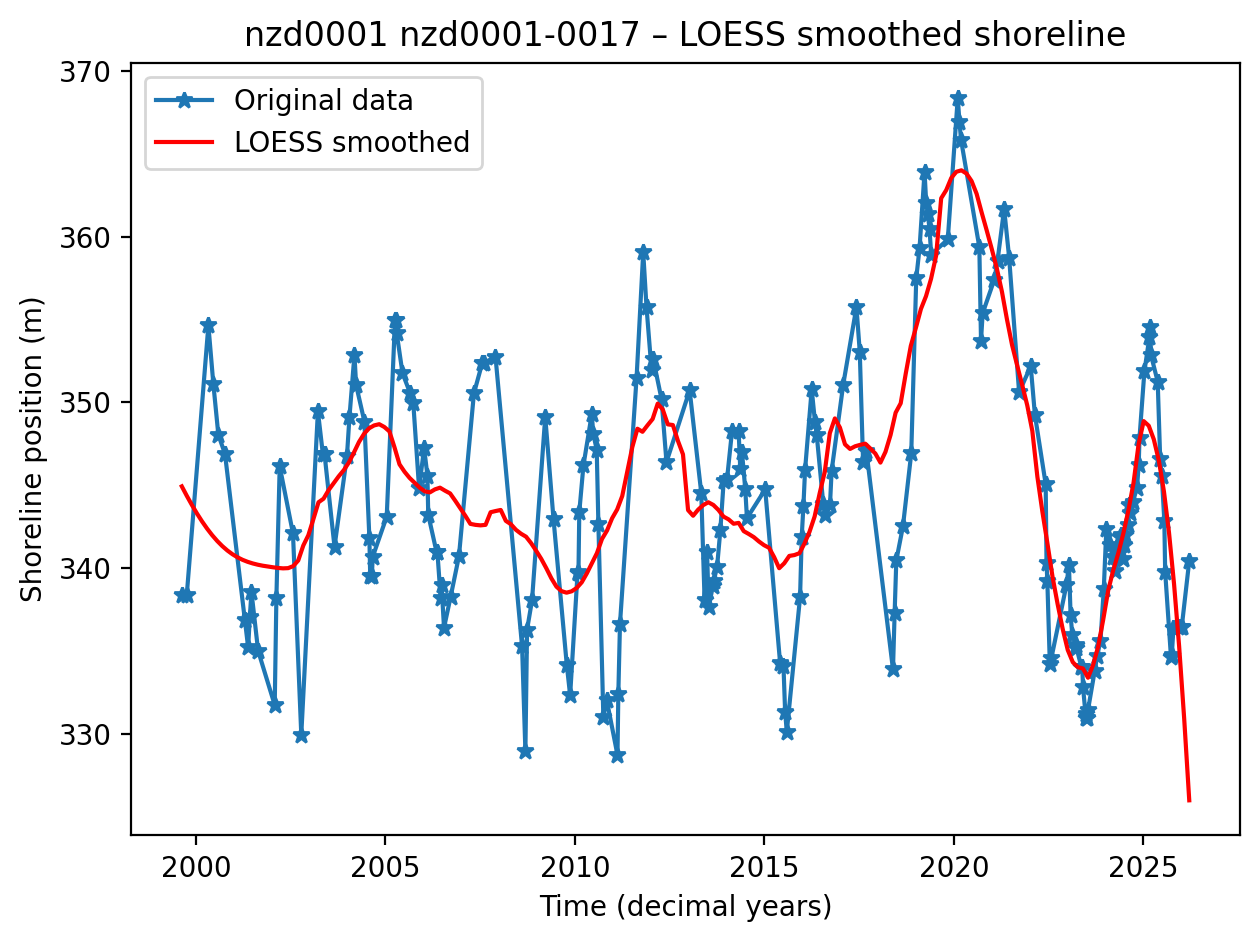
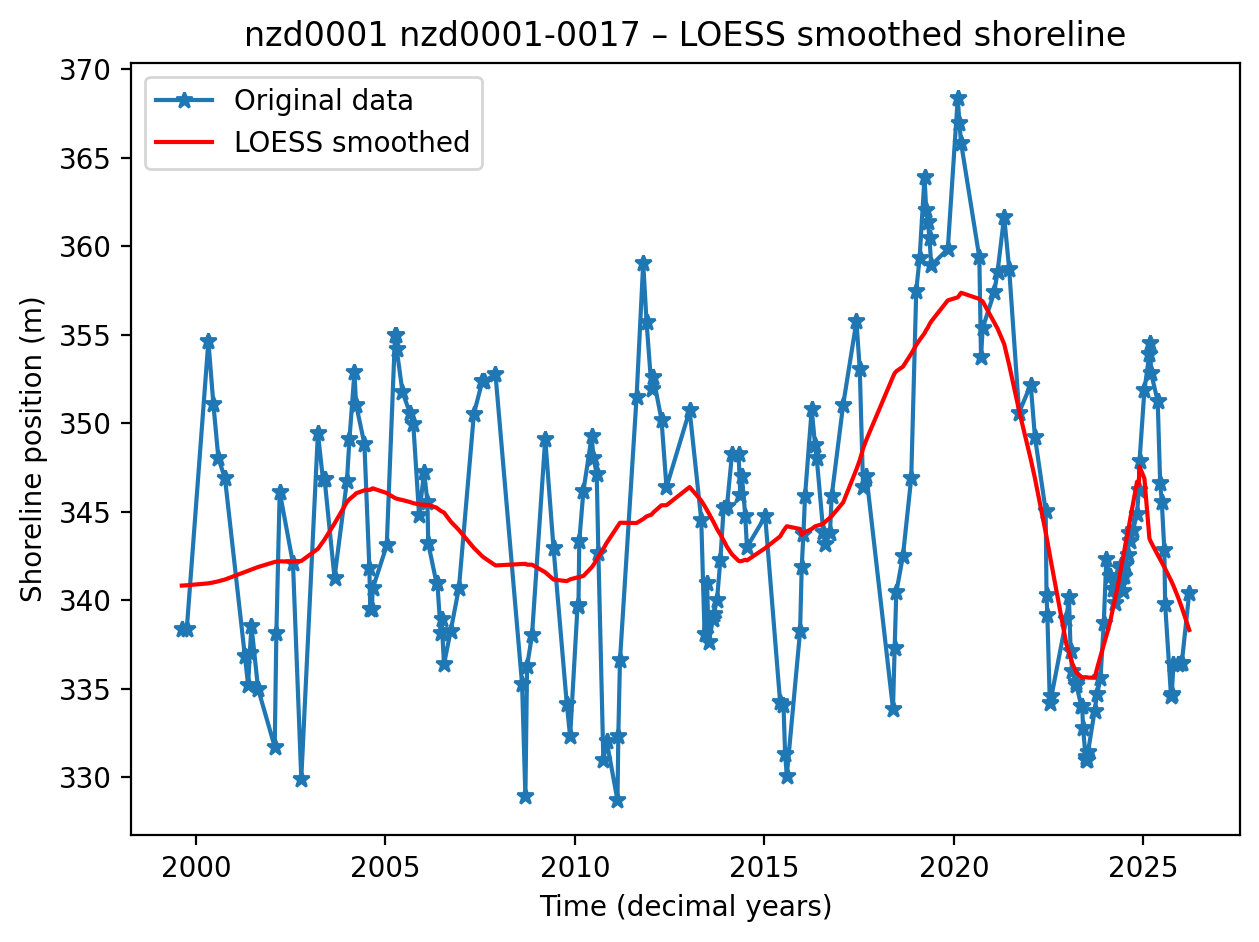
Fixed corner effects of smoothing curve

diff --git a/viz.py b/viz.py
@@ -2,6 +2,7 @@
 
 import matplotlib.pyplot as plt
 import numpy as np
+from matplotlib.gridspec import GridSpec
 
 def plot_observed_and_projected_single_run(
     t_obs,
@@ -115,12 +116,17 @@ def plot_observed_and_projected_single_run(
     seg_start_shoreline = baseline_y + np.concatenate(([0.0], np.cumsum(dy_mean)[:-1]))
     r_mean = np.mean(r_matrix, axis=0)
 
-    fig, (ax, ax_trend) = plt.subplots(
-        1,
+    fig = plt.figure(figsize=(15, 6.5))
+    gs = GridSpec(
         2,
-        figsize=(15, 5),
-        gridspec_kw={"width_ratios": [3.6, 1.4]},
+        2,
+        figure=fig,
+        width_ratios=[3.6, 1.4],
+        height_ratios=[1.0, 1.0],
     )
+    ax = fig.add_subplot(gs[:, 0])
+    ax_trend = fig.add_subplot(gs[0, 1])
+    ax_slr = fig.add_subplot(gs[1, 1])
     ax.plot(t_obs, y_obs, color="tab:blue", marker="o", markersize=2.5, linewidth=1.2, label="Observed")
     if t_loess is not None and t_loess.size > 0:
         ax.plot(
@@ -178,7 +184,6 @@ def plot_observed_and_projected_single_run(
         )
         first_label = False
 
-    ax_slr = None
     if slr_years.size > 0:
         slr_order = np.argsort(slr_years)
         slr_years = slr_years[slr_order]
@@ -186,7 +191,6 @@ def plot_observed_and_projected_single_run(
         slr_q50_values = slr_q50_values[slr_order]
         slr_q83_values = slr_q83_values[slr_order]
 
-        ax_slr = ax.twinx()
         ax_slr.plot(
             slr_years,
             slr_q50_values,
@@ -195,7 +199,7 @@ def plot_observed_and_projected_single_run(
             marker="o",
             markersize=3.0,
             alpha=0.9,
-            label="SLR projection",
+            label="SLR q50",
         )
         ax_slr.plot(
             slr_years,
@@ -204,7 +208,7 @@ def plot_observed_and_projected_single_run(
             linewidth=1.2,
             linestyle="--",
             alpha=0.95,
-            label="SLR bounds (q17/q83)",
+            label="SLR q17/q83",
         )
         ax_slr.plot(
             slr_years,
@@ -214,9 +218,19 @@ def plot_observed_and_projected_single_run(
             linestyle="--",
             alpha=0.95,
         )
-        ax_slr.set_ylabel("SLR change from 2025 [m]", color="deeppink")
-        ax_slr.tick_params(axis="y", colors="deeppink")
-        ax_slr.spines["right"].set_color("deeppink")
+        ax_slr.set_xlim(float(np.min(slr_years)), float(np.max(slr_years)))
+        ax_slr.grid(alpha=0.25)
+    else:
+        ax_slr.text(
+            0.5,
+            0.5,
+            "No SLR series available",
+            ha="center",
+            va="center",
+            transform=ax_slr.transAxes,
+            color="gray",
+        )
+        ax_slr.grid(alpha=0.25)
 
     ax.axvline(projection_start_year, color="gray", linestyle=":", linewidth=1.0)
     ax.set_xlabel("Year (decimal)")
@@ -277,11 +291,13 @@ def plot_observed_and_projected_single_run(
     ax_trend.plot([], [], " ", label="Note: KDE area = 1")
     ax_trend.legend(loc="best", fontsize=8)
 
+    ax_slr.set_xlabel("Year")
+    ax_slr.set_ylabel("SLR change from 2025 [m]")
+    ax_slr.set_title("Sea-level projection")
+    if slr_years.size > 0:
+        ax_slr.legend(loc="best", fontsize=8)
+
     handles, labels = ax.get_legend_handles_labels()
-    if ax_slr is not None:
-        handles_slr, labels_slr = ax_slr.get_legend_handles_labels()
-        handles.extend(handles_slr)
-        labels.extend(labels_slr)
     ax.legend(handles, labels, loc="best", fontsize=8)
     fig.tight_layout()
     fig.savefig(out_fp, dpi=300)

diff --git a/trend_uncertainty.py b/trend_uncertainty.py
@@ -630,7 +630,7 @@ for site_id in nzd_sites_trial:
 
         t_loess, t_loess_grid, t_loess_origin = build_loess_time_grid(
             t_clean,
-            n_grid=max(200, t_clean.size),
+            n_grid=None,
         )
 #%
 
@@ -638,14 +638,14 @@ for site_id in nzd_sites_trial:
         target_window_years = 5.0
         total_timespan_years = t_clean.max() - t_clean.min()
         frac = target_window_years / total_timespan_years
-        frac = np.clip(frac, 0.1, 0.9)  # Keep within reasonable bounds
+        frac = np.clip(frac, 0.15, 0.9)  # Keep within reasonable bounds
 
         x_smooth, y_smooth, _ = loess_1d(
             t_loess,
             y_clean,
             xnew=t_loess_grid,
             frac=frac,  # Dynamically set for ~5 year window
-            degree=2,
+            degree=1,  # Linear local fit is more stable at series boundaries.
         )
 
         t_smooth = x_smooth + t_loess_origin
